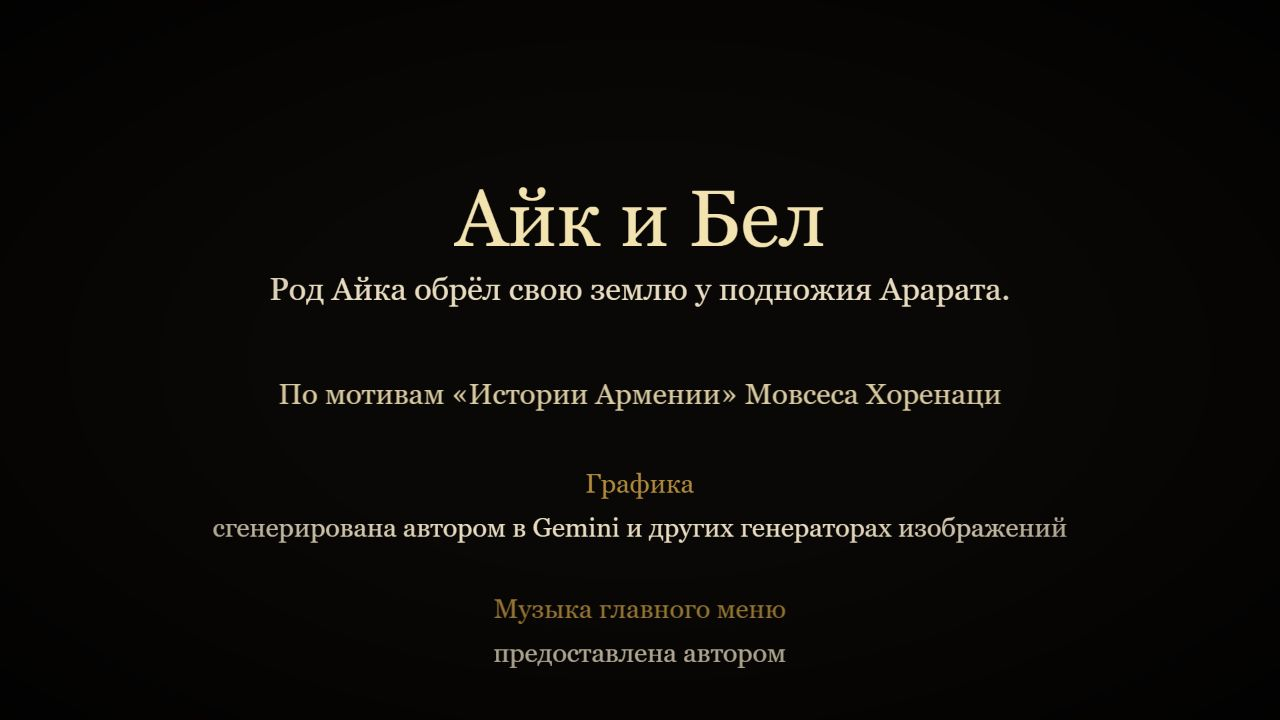
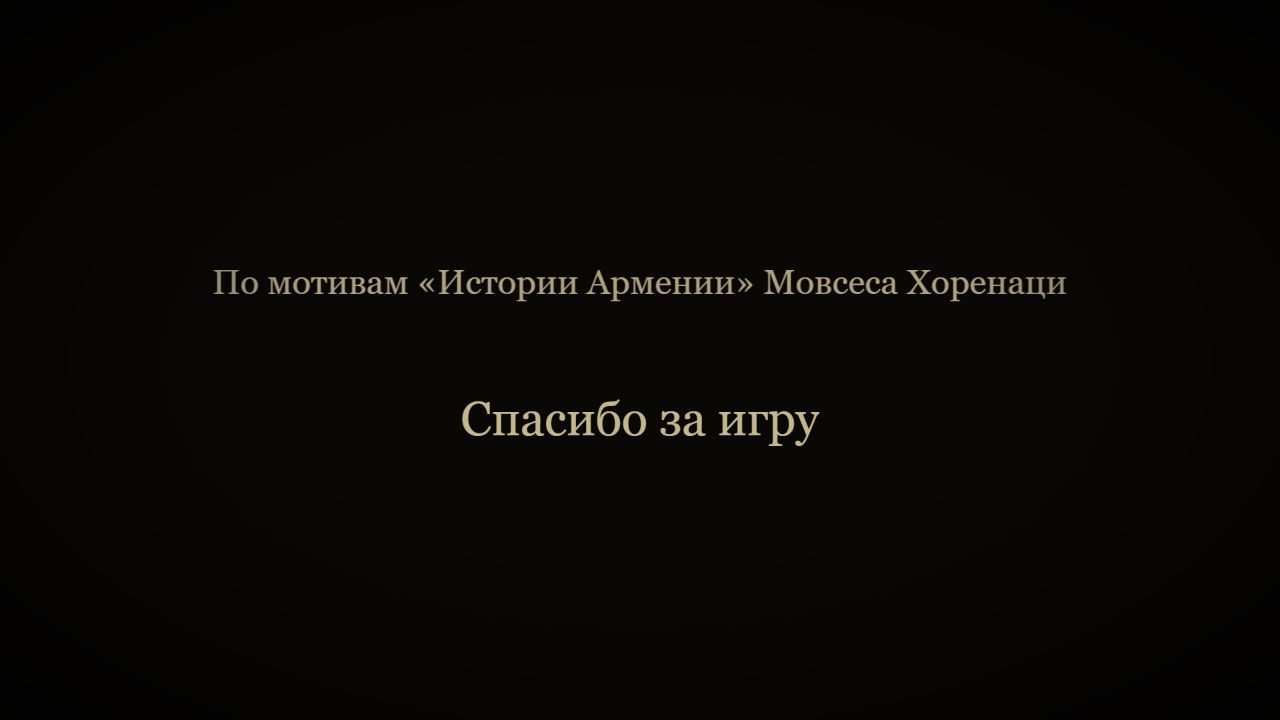
Титры: остались только строка о Мовсесе Хоренаци и благодарность за игру (на всех трёх языках)

diff --git a/src/i18n.js b/src/i18n.js
@@ -48,23 +48,9 @@ const TEXT = {
     ],
     // титры: [текст, размер шрифта, цвет]; пустая строка — отступ
     credits: [
-      ['Айк и Бел', 120, '#f3e3b0'],
-      ['Род Айка обрёл свою землю у подножия Арарата.', 48, '#e8dcc0'],
-      ['', 60],
-      ['По мотивам «Истории Армении» Мовсеса Хоренаци', 44, '#d8c9a0'],
-      ['', 40],
-      ['Графика', 40, '#b08a3c'],
-      ['сгенерирована автором в Gemini и других генераторах изображений', 40, '#e8dcc0'],
-      ['', 30],
-      ['Музыка главного меню', 40, '#b08a3c'],
-      ['предоставлена автором', 40, '#e8dcc0'],
-      ['', 30],
-      ['Звуки уровней', 40, '#b08a3c'],
-      ['временные, собраны кодом', 40, '#e8dcc0'],
-      ['', 30],
-      ['Сделано на Phaser 3', 40, '#d8c9a0'],
-      ['', 80],
-      ['Спасибо за игру', 64, '#f3e3b0'],
+      ['По мотивам «Истории Армении» Мовсеса Хоренаци', 52, '#d8c9a0'],
+      ['', 90],
+      ['Спасибо за игру', 72, '#f3e3b0'],
     ],
     'end.menu': 'Enter — в главное меню',
   },
@@ -111,23 +97,9 @@ const TEXT = {
       'An arrow from Hayk’s broad bow pierced the bronze armour of Bel, and the tyrant fell, and his army fled.\nThe valley has been called Hayots Dzor ever since, and the land bears the name of Hayk.',
     ],
     credits: [
-      ['Hayk and Bel', 120, '#f3e3b0'],
-      ['The people of Hayk found their land at the foot of Ararat.', 48, '#e8dcc0'],
-      ['', 60],
-      ['Based on the “History of Armenia” by Movses Khorenatsi', 44, '#d8c9a0'],
-      ['', 40],
-      ['Art', 40, '#b08a3c'],
-      ['generated by the author in Gemini and other image generators', 40, '#e8dcc0'],
-      ['', 30],
-      ['Main menu music', 40, '#b08a3c'],
-      ['provided by the author', 40, '#e8dcc0'],
-      ['', 30],
-      ['Level sounds', 40, '#b08a3c'],
-      ['temporary, made in code', 40, '#e8dcc0'],
-      ['', 30],
-      ['Made with Phaser 3', 40, '#d8c9a0'],
-      ['', 80],
-      ['Thank you for playing', 64, '#f3e3b0'],
+      ['Based on the “History of Armenia” by Movses Khorenatsi', 52, '#d8c9a0'],
+      ['', 90],
+      ['Thank you for playing', 72, '#f3e3b0'],
     ],
     'end.menu': 'Enter — main menu',
   },
@@ -174,23 +146,9 @@ const TEXT = {
       'Հայկի լայնալիճ աղեղից արձակված նետը ծակեց Բելի պղնձե զրահը, և բռնակալն ընկավ, իսկ նրա զորքը փախավ։\nԱյդ հովիտն այն օրից կոչվում է Հայոց ձոր, իսկ երկիրը Հայկի անունով՝ Հայք։',
     ],
     credits: [
-      ['Հայկ և Բել', 120, '#f3e3b0'],
-      ['Հայկի տոհմը գտավ իր հողը Արարատի ստորոտին։', 48, '#e8dcc0'],
-      ['', 60],
-      ['Ըստ Մովսես Խորենացու «Հայոց պատմության»', 44, '#d8c9a0'],
-      ['', 40],
-      ['Գրաֆիկա', 40, '#b08a3c'],
-      ['ստեղծել է հեղինակը Gemini-ով և պատկերների այլ գեներատորներով', 40, '#e8dcc0'],
-      ['', 30],
-      ['Գլխավոր ընտրացանկի երաժշտություն', 40, '#b08a3c'],
-      ['տրամադրել է հեղինակը', 40, '#e8dcc0'],
-      ['', 30],
-      ['Մակարդակների ձայներ', 40, '#b08a3c'],
-      ['ժամանակավոր են, ստեղծված կոդով', 40, '#e8dcc0'],
-      ['', 30],
-      ['Ստեղծված է Phaser 3-ով', 40, '#d8c9a0'],
-      ['', 80],
-      ['Շնորհակալություն խաղալու համար', 64, '#f3e3b0'],
+      ['Ըստ Մովսես Խորենացու «Հայոց պատմության»', 52, '#d8c9a0'],
+      ['', 90],
+      ['Շնորհակալություն խաղալու համար', 72, '#f3e3b0'],
     ],
     'end.menu': 'Enter — գլխավոր ընտրացանկ',
   },

diff --git a/src/scenes/Ending.js b/src/scenes/Ending.js
@@ -4,7 +4,7 @@ import { FONT } from './UI.js';
 import { t } from '../i18n.js';
 import { writeSave } from '../save.js';
 
-// Финальный экран и титры (источники ассетов — из CREDITS.md).
+// Финальный экран и титры.
 // Строки титров лежат в src/i18n.js (на русском и английском).
 
 export default class Ending extends Phaser.Scene {
@@ -23,9 +23,10 @@ export default class Ending extends Phaser.Scene {
       if (line) box.add(this.add.text(GAME_W / 2, y, line, { fontFamily: FONT, fontSize: size, color: color || '#fff' }).setOrigin(0.5, 0));
       y += size + 26;
     }
-    box.y = 260;
-    // титры медленно поднимаются и останавливаются, когда последняя строка в центре экрана
-    this.tweens.add({ targets: box, y: Math.min(260, GAME_H / 2 - y), duration: 16000, delay: 2500, ease: 'Sine.easeInOut' });
+    // титры стоят по центру экрана и плавно проявляются
+    box.y = (GAME_H - y) / 2;
+    box.setAlpha(0);
+    this.tweens.add({ targets: box, alpha: 1, duration: 2000, delay: 600 });
     this.add.image(0, 0, 'vignette').setOrigin(0).setDisplaySize(GAME_W, GAME_H).setAlpha(0.8);
     const hint = this.add.text(GAME_W / 2, GAME_H - 60, t('end.menu'), { fontFamily: FONT, fontSize: 32, color: '#8f8468' }).setOrigin(0.5).setAlpha(0);
     this.tweens.add({ targets: hint, alpha: 1, duration: 800, delay: 3000 });
